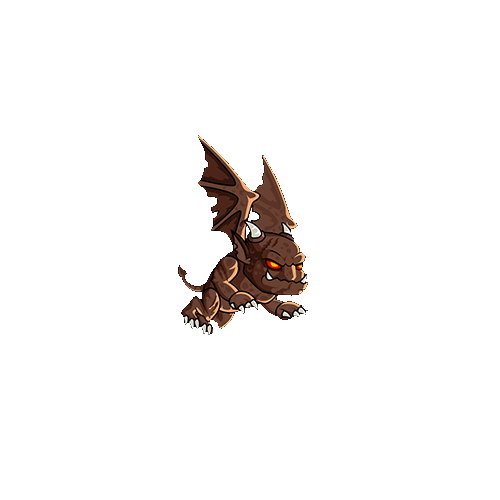
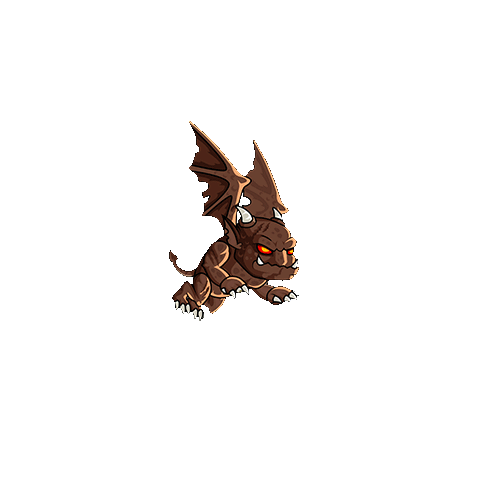
добавлен враг Gargoly

Changed region(s): [[0.33, 0.24, 0.63, 0.66], [0.33, 0.51, 0.36, 0.54]]

diff --git a/src/main/java/com/plekhanov/game/gameObjects/enemies/EnemyGargoly.java b/src/main/java/com/plekhanov/game/gameObjects/enemies/EnemyGargoly.java
@@ -9,7 +9,7 @@ public class EnemyGargoly extends Enemy {
 
     private static final int imageWidth = 500;
     private static final int imageHeight = 500;
-    private static final int renderOrder = 13;
+    private static final int renderOrder = 20;
 
     private boolean fly = true;
 
@@ -23,7 +23,7 @@ public class EnemyGargoly extends Enemy {
     public EnemyGargoly(double x, double y, double speedX, double speedY, Model model) {
         super(x, y, speedX, speedY, flyRight_1, imageWidth, imageHeight, renderOrder, model);
 
-        actionCountMax = 400;
+        actionCountMax = 320;
         life = 3;
     }
 
@@ -39,21 +39,21 @@ public class EnemyGargoly extends Enemy {
 
 
     private void changeImage() {
-        if (actionCount < 50 && fly) {
+        if (actionCount < 40 && fly) {
             this.bufferedImage = flyRight_1;
-        } else if (actionCount < 100 && fly) {
+        } else if (actionCount < 80 && fly) {
             this.bufferedImage = flyRight_2;
-        } else if (actionCount < 150 && fly) {
+        } else if (actionCount < 120 && fly) {
             this.bufferedImage = flyRight_3;
+        } else if (actionCount < 160 && fly) {
+            this.bufferedImage = flyRight_4;
         } else if (actionCount < 200 && fly) {
-            this.bufferedImage = flyRight_4;
-        } else if (actionCount < 250 && fly) {
             this.bufferedImage = flyRight_5;
-        } else if (actionCount < 300 && fly) {
+        } else if (actionCount < 240 && fly) {
             this.bufferedImage = flyRight_4;
-        } else if (actionCount < 350 && fly) {
+        } else if (actionCount < 280 && fly) {
             this.bufferedImage = flyRight_3;
-        } else if (actionCount < 400 && fly) {
+        } else if (actionCount < 320 && fly) {
             this.bufferedImage = flyRight_2;
         }
 

diff --git a/src/main/java/com/plekhanov/game/gameLevels/Level_1.java b/src/main/java/com/plekhanov/game/gameLevels/Level_1.java
@@ -6,6 +6,7 @@ import com.plekhanov.game.gameObjects.GameObject;
 import com.plekhanov.game.gameObjects.Player;
 import com.plekhanov.game.gameObjects.background.BackGround;
 import com.plekhanov.game.gameObjects.enemies.EnemyCarrion;
+import com.plekhanov.game.gameObjects.enemies.EnemyGargoly;
 import com.plekhanov.game.gameObjects.enemies.EnemyHusk;
 import com.plekhanov.game.gameObjects.enemies.EnemyPestilence;
 
@@ -43,8 +44,8 @@ public class Level_1 {
         // Враги
         gameObjects.add(new EnemyCarrion(2000, 965, -0.5, 0, model)); //enemyCarrion
         gameObjects.add(new EnemyHusk(2200, 580, -0.3, 0, model)); //enemyHusk
-        gameObjects.add(new EnemyPestilence(2200, 370, -0.7, 0, model)); //enemyPestilence
-
+        //gameObjects.add(new EnemyPestilence(2200, 370, -0.7, 0, model)); //enemyPestilence
+        gameObjects.add(new EnemyGargoly(1500, 370, 0, 0, model));
         // Игрок
         Player player = new Player(500, 900, 0, 0, 900, model);
         gameObjects.add(player);

diff --git a/src/main/java/com/plekhanov/game/gameLevels/Level_3.java b/src/main/java/com/plekhanov/game/gameLevels/Level_3.java
@@ -51,7 +51,7 @@ public class Level_3 {
         //gameObjects.add(new EnemyCarrion(2000, 965, -0.5, 0, ImageLoader.getEnemyCarrionImage(), 180, 120, 13, model)); //enemyCarrion
 //        gameObjects.add(new EnemyHusk(2200, 580, -0.3, 0, model)); //enemyHusk
 //        gameObjects.add(new EnemyPestilence(2200, 370, -0.7, 0, model)); //enemyPestilence
-                gameObjects.add(new EnemyGargoly(1500, 370, 0, 0, model)); //enemyPestilence
+
 
 
         // Игрок
